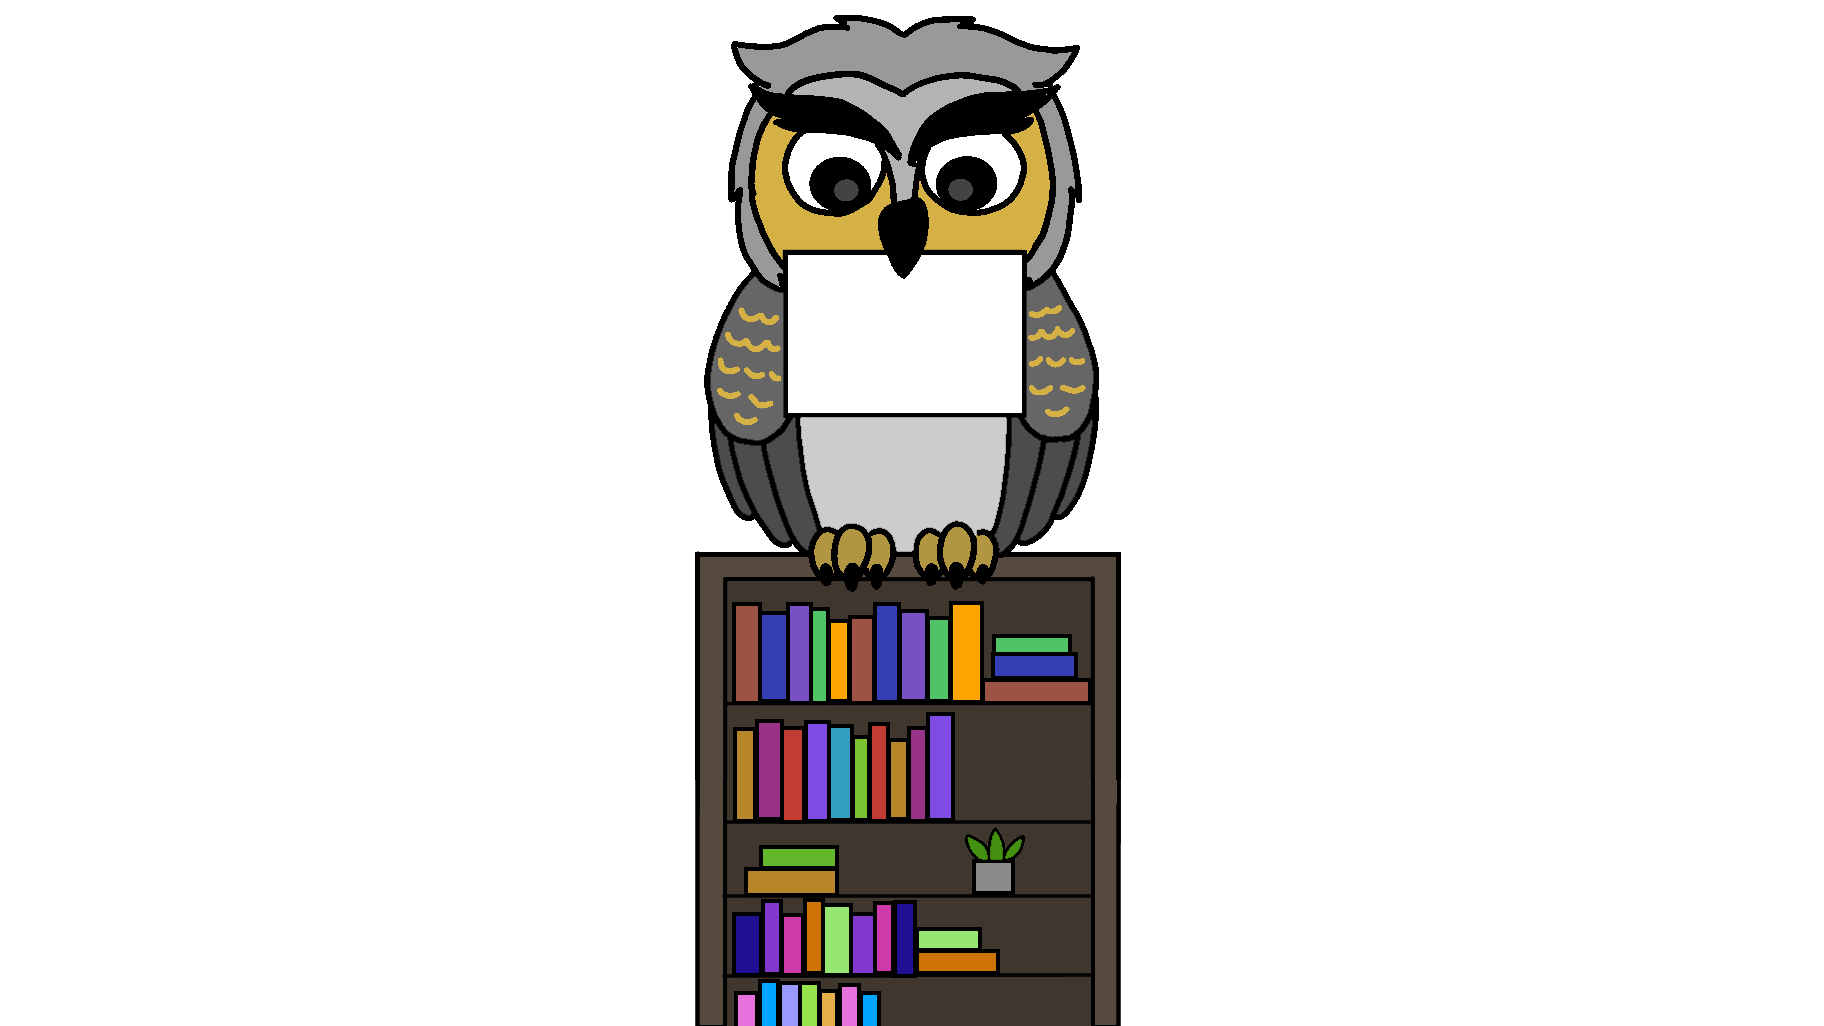
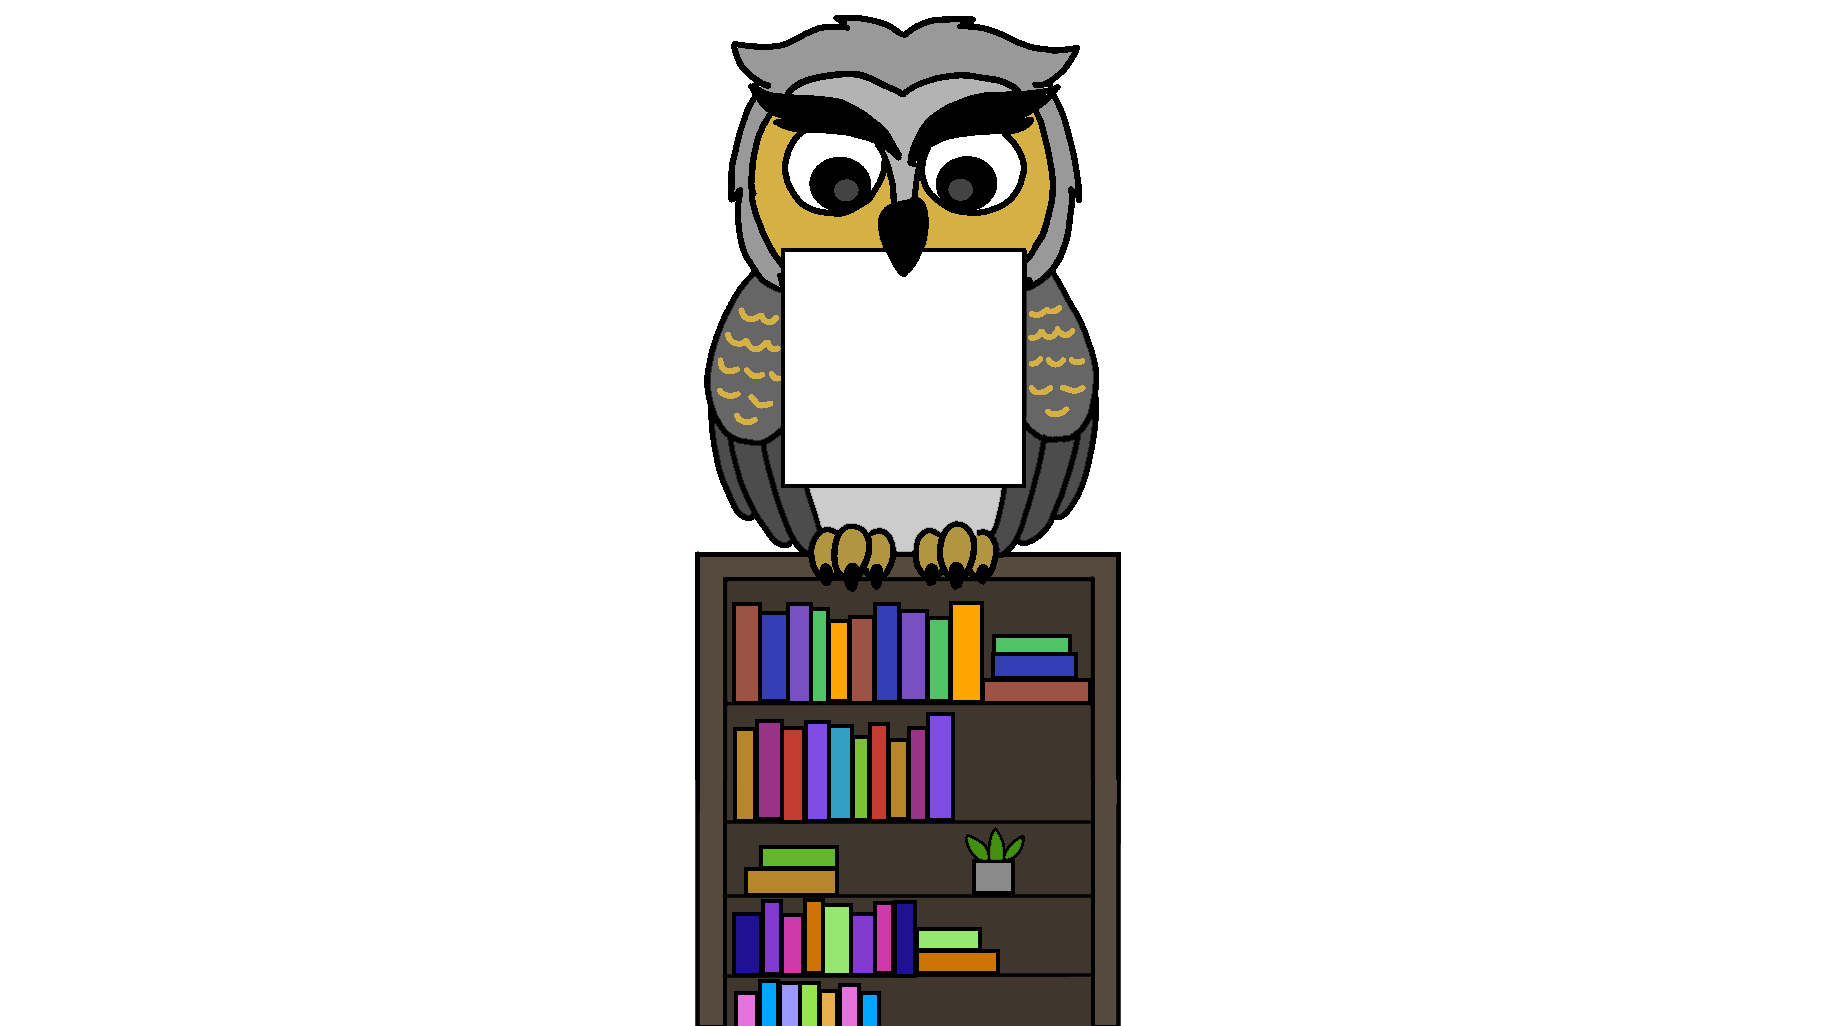
EULEN
mehr Platz Anmeldung, VERSPATUNGSEULEN

Changed region(s): [[0.4062, 0.3119, 0.5625, 0.499], [0.5, 0.2183, 0.5625, 0.2495], [0.4375, 0.2183, 0.4688, 0.2495]]

diff --git a/ControllerSchuelerStartseite.java b/ControllerSchuelerStartseite.java
@@ -19,6 +19,8 @@ import java.util.ArrayList;
 import javafx.scene.control.TextArea;
 import javafx.scene.control.Button;
 import javafx.scene.paint.Color;
+import javafx.scene.image.ImageView;
+import javafx.scene.image.Image;
 
 import javafx.scene.text.Text;
 import javafx.scene.text.Font;
@@ -36,6 +38,8 @@ public class ControllerSchuelerStartseite {
 
     private final double maxText = 802;
     private final double normaleSchriftgros = 55;
+    
+    private int bild;
 
     @FXML
     private Text nutzernameText;
@@ -97,6 +101,9 @@ public class ControllerSchuelerStartseite {
 
     @FXML
     private Text gesperrtText;
+    
+    @FXML
+    private ImageView mahnung;
 
     public static class TabellenZeile {
         private String titel;
@@ -152,6 +159,22 @@ public class ControllerSchuelerStartseite {
         nutzernameText.setText(text);
         gesperrtText.setVisible(!model.isFreigeschaltet());
         updateTabellen();
+        
+        bild = model.tagefuerSchueler();
+        Image eule = null;
+        
+        if(bild == 1){
+            eule = new Image(getClass().getResource("/eulen/EuleAngry.png").toExternalForm());
+        }
+        else if (bild == 2){
+            eule = new Image(getClass().getResource("/eulen/keineEule.png").toExternalForm());
+        }
+        else{
+            eule = new Image(getClass().getResource("/eulen/normaleEule.png").toExternalForm());
+        }
+        
+        mahnung.setImage(eule);
+        mahnung.setPreserveRatio(true);
     }
 
     public void initialize() {
@@ -171,6 +194,7 @@ public class ControllerSchuelerStartseite {
         verlaufAusleihdatumSpalte.setCellValueFactory(new PropertyValueFactory<>("datum"));
         reservierenButton.setDisable(true);
         gesperrtText.setVisible(false);
+        
 
         Platform.runLater(() -> {
             Scene scene = background.getScene();

diff --git a/Bibliothek.java b/Bibliothek.java
@@ -92,6 +92,24 @@ public class Bibliothek {
             }
         }
     }
+    
+    public int tagefuerSchueler(){
+        
+        int i = 0;
+        dbConnector.executeStatement(
+                "SELECT ausleihen.id ,DATE_FORMAT(ausleihen.geplante_rueckgabe, '%d.%m.%Y') FROM ausleihen INNER JOIN benutzer ON ausleihen.schueler_id = benutzer.id INNER JOIN buecher ON ausleihen.isbn = buecher.isbn WHERE ausleihen.ruckgabe_datum IS NULL AND ausleihen.geplante_rueckgabe = CURRENT_DATE() AND benutzer.id = '"+angemeldet+ "'");
+        QueryResult resultStichtag = dbConnector.getCurrentQueryResult();
+        if(resultStichtag != null && resultStichtag.getRowCount() > 0)
+        i = 1;
+        dbConnector.executeStatement(
+                "SELECT ausleihen.id, DATE_FORMAT(ausleihen.geplante_rueckgabe, '%d.%m.%Y') FROM ausleihen INNER JOIN benutzer ON ausleihen.schueler_id = benutzer.id INNER JOIN buecher ON ausleihen.isbn = buecher.isbn WHERE ausleihen.ruckgabe_datum IS NULL AND ausleihen.geplante_rueckgabe < CURRENT_DATE() AND benutzer.id = '"+angemeldet+ "'");
+        QueryResult result1Woche = dbConnector.getCurrentQueryResult();
+        if(result1Woche != null && result1Woche.getRowCount() >0)
+        i = 2;
+        return i;
+        
+        
+    }
 
     private void dbVerbinden() {
         dbConnector = new DatabaseConnector("localhost", 3306, "Bibliothek", "root", "");
